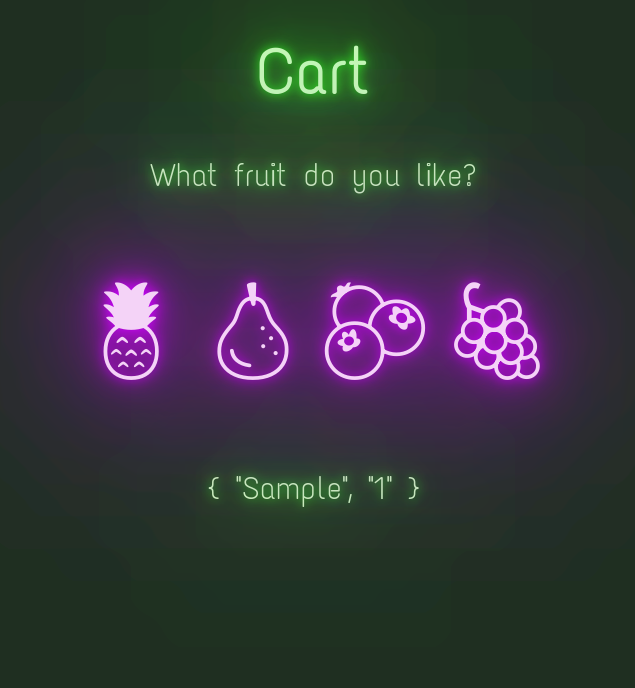
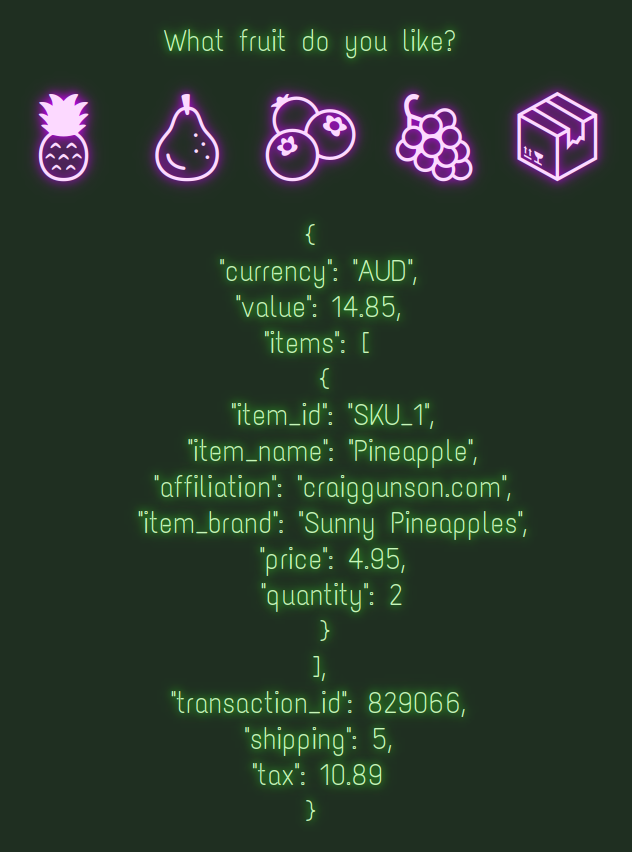
with purchase step, and less shaddow coz chrome is slow AF with css shadow

diff --git a/checkout.js b/checkout.js
@@ -64,8 +64,18 @@ return cart
 function checkout(cart) {
   console.log('begin_checkout',cart);
   gtag("event", "begin_checkout", cart);
+  pay(cart);
 return cart 
 }  
+
+function pay(cart) {
+cart['transaction_id'] = Math.floor(100000 + Math.random() * 900000);
+cart['shipping'] = 5
+cart['tax'] = cart['value'] * 1.1
+gtag("event", "purchase", cart)
+
+redraw(cart)
+}
 
 function redraw(cart) {
   sumcart=cart['items']
@@ -74,7 +84,7 @@ function redraw(cart) {
     cart.value = cart.value + cart.items[i].price;
     cart.value = Math.round(cart.value *100 ) / 100;
   }
-document.getElementById("demo").innerHTML = JSON.stringify(cart,null,2).replace(/\n( *)/g, function (match, p1) {
+document.getElementById("demo").innerHTML = JSON.stringify(cart,null,1).replace(/\n( *)/g, function (match, p1) {
   return '<br>' + '&nbsp;'.repeat(p1.length); });
  }
 

diff --git a/index.html b/index.html
@@ -24,11 +24,14 @@
            <custom id="pear" onclick="add(cart,pear)" >🍐</custom>  
            <custom id="blueberry" onclick="add(cart,blueberry)" >🫐</custom>  
            <custom id="grape" onclick="add(cart,grape)" >🍇</custom>  
-           <custom id="checkout" onclick="checkout(cart)" >🛒</custom>  
-
+           <custom id="checkout" onclick="checkout(cart)" >📦</custom>  
            
            
-           <p id="demo">{ "Sample", "1" }</p>
+           <p id="demo">{<br>
+            "currency": "AUD",<br>
+            "value": 0.00,<br>
+            "items": []<br>
+          }</p>
            
           </body>
           <script src="checkout.js"></script>

diff --git a/style.css b/style.css
@@ -23,8 +23,7 @@ custom {
     cursor: pointer;
     color: #fcd9ff;
     text-shadow: 0 0 0 transparent, 0 0 10px #c800ff,
-      0 0 20px rgba(247, 0, 255, 0.5), 0 0 40px #c800ff, 0 0 100px #c800ff,
-      0 0 200px #c800ff, 0 0 300px #c800ff, 0 0 500px #c800ff, 0 0 1000px #c800ff;
+      0 0 20px rgba(247, 0, 255, 0.5);
 
   }
 
@@ -41,8 +40,7 @@ p { font-size: 1em;
 
   color: #c7f6ba;
   text-shadow: 0 0 0 transparent, 0 0 10px #34ff26,
-    0 0 20px rgba(49, 132, 18, 0.5), 0 0 40px #34ff26, 0 0 100px #34ff26,
-    0 0 200px #34ff26, 0 0 300px #34ff26, 0 0 500px #34ff26;
+    0 0 20px rgba(49, 132, 18, 0.5);
 
 }
 
